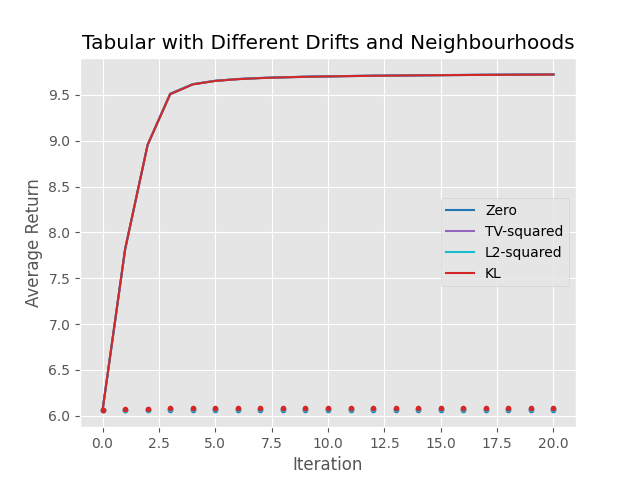
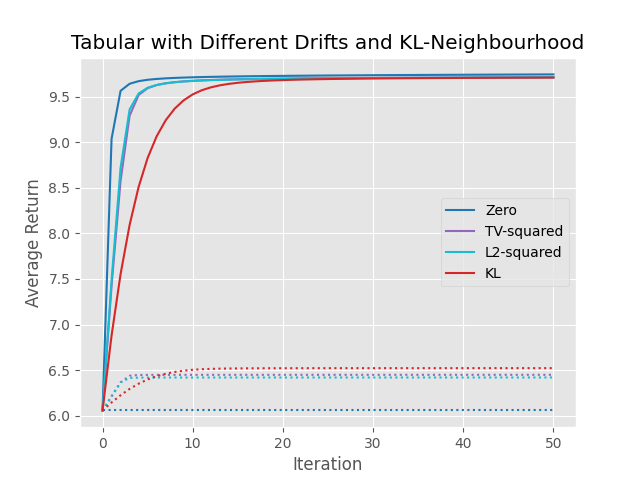
updated experiments

diff --git a/mirror_learning/config.py b/mirror_learning/config.py
@@ -5,12 +5,18 @@ from mirror_learning.mirror_learning import envs, drifts, neihbourhoods
 
 
 bandit_config = {
-    "envs": 4* [ envs.Bandit(5, np.array([10., 0, 1., 0., 9.])) ],
-    "drifts": [drifts.Zero(), drifts.TVSq(1), drifts.EuclidSq(1), drifts.KL(1)],
+    "envs": 4* [ envs.Bandit(5, np.array([10., 0, 1., 0., 5.])) ],
+    "drifts": [drifts.Zero(), drifts.TVSq(50), drifts.EuclidSq(50), drifts.KL(50)],
     "drift_names": ["Zero", "TV-squared", "L2-squared", "KL"],
-    "neighbourhoods": 4*[
-                        neihbourhoods.constraint_neighbourhood(
-                            drifts.expected_drift(drifts.KL(10), torch.ones(1), functional=False), 0.1),
+    "neighbourhoods": [
+        neihbourhoods.constraint_neighbourhood(
+            drifts.expected_drift(drifts.Zero(), torch.ones(1), functional=False), 0.05),
+        neihbourhoods.constraint_neighbourhood(
+            drifts.expected_drift(drifts.TVSq(1), torch.ones(1), functional=False), 0.05),
+        neihbourhoods.constraint_neighbourhood(
+            drifts.expected_drift(drifts.EuclidSq(1), torch.ones(1), functional=False), 0.05),
+        neihbourhoods.constraint_neighbourhood(
+            drifts.expected_drift(drifts.KL(1), torch.ones(1), functional=False), 0.05),
     ],
     "samplings": 4*[lambda pi: torch.ones(1)],
     "colors": ["tab:blue", "tab:purple", "tab:cyan", "tab:red"]
@@ -18,11 +24,17 @@ bandit_config = {
 
 tabular_config = {
     "envs": 4* [ envs.TabularGame(5, 3) ],
-    "drifts": [drifts.Zero(), drifts.TVSq(1), drifts.EuclidSq(1), drifts.KL(1)],
+    "drifts": [drifts.Zero(), drifts.TVSq(50), drifts.EuclidSq(50), drifts.KL(50)],
     "drift_names": ["Zero", "TV-squared", "L2-squared", "KL"],
-    "neighbourhoods": 4*[
-                        neihbourhoods.constraint_neighbourhood(
-                            drifts.expected_drift(drifts.KL(10), torch.ones(5) / 5, functional=False), 0.1),
+    "neighbourhoods": [
+        neihbourhoods.constraint_neighbourhood(
+            drifts.expected_drift(drifts.Zero(), torch.ones(5) / 5, functional=False), 0.05),
+        neihbourhoods.constraint_neighbourhood(
+            drifts.expected_drift(drifts.TVSq(1), torch.ones(5) / 5, functional=False), 0.05),
+        neihbourhoods.constraint_neighbourhood(
+            drifts.expected_drift(drifts.EuclidSq(1), torch.ones(5) / 5, functional=False), 0.05),
+        neihbourhoods.constraint_neighbourhood(
+            drifts.expected_drift(drifts.KL(1), torch.ones(5) / 5, functional=False), 0.05)
     ],
     "samplings": 4*[lambda pi: torch.ones(5)/5],
     "colors": ["tab:blue", "tab:purple", "tab:cyan", "tab:red"]
@@ -31,11 +43,17 @@ tabular_config = {
 
 gridworld_config = {
     "envs" : 4* [envs.GridWorld(5, 5)],
-    "drifts": [drifts.Zero(), drifts.TVSq(1), drifts.EuclidSq(1), drifts.KL(1)],
+    "drifts": [drifts.Zero(), drifts.TVSq(50), drifts.EuclidSq(50), drifts.KL(50)],
     "drift_names": ["Zero", "TV-squared", "L2-squared", "KL"],
-    "neighbourhoods": 4*[
+    "neighbourhoods": 4 * [
         neihbourhoods.constraint_neighbourhood(
-            drifts.expected_drift(drifts.KL(10), torch.ones(23) / 23, functional=False), 0.1),
+            drifts.expected_drift(drifts.Zero(), torch.ones(23) / 23, functional=False), 0.05),
+        neihbourhoods.constraint_neighbourhood(
+            drifts.expected_drift(drifts.TVSq(1), torch.ones(23) / 23, functional=False), 0.05),
+        neihbourhoods.constraint_neighbourhood(
+            drifts.expected_drift(drifts.EuclidSq(1), torch.ones(23) / 23, functional=False), 0.05),
+        neihbourhoods.constraint_neighbourhood(
+            drifts.expected_drift(drifts.KL(1), torch.ones(23) / 23, functional=False), 0.05)
     ],
     "samplings": 4*[lambda pi: torch.ones(23)/23],
     "colors": ["tab:blue", "tab:purple", "tab:cyan", "tab:red"]

diff --git a/mirror_learning/runner.py b/mirror_learning/runner.py
@@ -12,7 +12,8 @@ def main():
 
     plt.style.use('ggplot')
 
-    experiments = [("Single-Step", bandit_config, 10), ("Tabular", tabular_config, 15), ("GridWorlds", gridworld_config, 15)]
+    experiments = [("Single-Step", bandit_config, 50), ("Tabular", tabular_config, 50),
+                   ("GridWorld", gridworld_config, 50)]
 
     for name, config, n_iters in experiments:
         training = Training(config)
@@ -24,15 +25,15 @@ def main():
 
         for i in range(len(config["envs"])):
             plt.plot(v[:, i], label=config["drift_names"][i], c=config["colors"][i])
-            plt.plot(drift[:, i]+v[0, i], ".",  c=config["colors"][i])
+            plt.plot(drift[:, i]+v[0, i], ":",  c=config["colors"][i])
 
         print(v[-1, :])
 
-        plt.title("{} with Different Drifts and KL-Neighbourhood".format(name))
+        plt.title("{} with Different Drifts and Neighbourhoods".format(name))
         plt.xlabel("Iteration")
         plt.ylabel("Average Return")
         plt.legend()
-        fig.savefig("{} experiments KL".format(name))
+        fig.savefig("{} experiments".format(name))
 
 
 if __name__ == "__main__":
